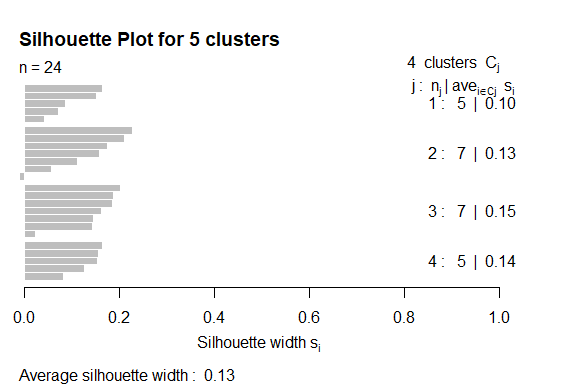
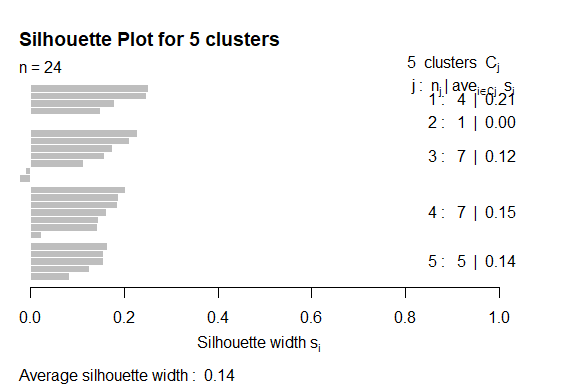
Fix pam k value

diff --git a/sm9_clustering-pca.md b/sm9_clustering-pca.md
@@ -87,11 +87,31 @@ library(pvclust)
 
 ``` r
 library(xtable)
+```
+
+    ## Warning: package 'xtable' was built under R version 4.3.2
+
+``` r
 library(limma)
 library(tidyr)
+```
+
+    ## Warning: package 'tidyr' was built under R version 4.3.2
+
+``` r
 library(dplyr)
+```
+
+    ## Warning: package 'dplyr' was built under R version 4.3.2
+
+``` r
 library(GEOquery)
 library(knitr)
+```
+
+    ## Warning: package 'knitr' was built under R version 4.3.3
+
+``` r
 library(pheatmap)
 ```
 
@@ -105,6 +125,11 @@ library(matrixStats)
 
 ``` r
 library(ggplot2)
+```
+
+    ## Warning: package 'ggplot2' was built under R version 4.3.3
+
+``` r
 library(Rtsne)
 ```
 
@@ -704,7 +729,7 @@ unlike k-means
 Here we run PAM with k = 5.
 
 ``` r
-pr.pam <- pam(pr.dis, k = 4)
+pr.pam <- pam(pr.dis, k = 5)
 pr.pamTable <- data.frame(tissue = pData(geo_obj)$tissue, 
                           genotype = pData(geo_obj)$genotype,
                           cluster = pr.pam$clustering)
@@ -716,27 +741,27 @@ kable(pr.pamTable)
 | GSM1720833 | quadriceps | control    |       1 |
 | GSM1720834 | quadriceps | control    |       1 |
 | GSM1720835 | quadriceps | control    |       1 |
-| GSM1720836 | quadriceps | control    |       1 |
+| GSM1720836 | quadriceps | control    |       2 |
 | GSM1720837 | quadriceps | control    |       1 |
-| GSM1720838 | quadriceps | control    |       2 |
-| GSM1720839 | quadriceps | nebulin KO |       2 |
-| GSM1720840 | quadriceps | nebulin KO |       2 |
-| GSM1720841 | quadriceps | nebulin KO |       2 |
-| GSM1720842 | quadriceps | nebulin KO |       2 |
-| GSM1720843 | quadriceps | nebulin KO |       2 |
-| GSM1720844 | quadriceps | nebulin KO |       2 |
-| GSM1720845 | soleus     | control    |       3 |
-| GSM1720846 | soleus     | control    |       4 |
-| GSM1720847 | soleus     | control    |       4 |
-| GSM1720848 | soleus     | control    |       4 |
-| GSM1720849 | soleus     | control    |       4 |
-| GSM1720850 | soleus     | control    |       4 |
-| GSM1720851 | soleus     | nebulin KO |       3 |
-| GSM1720852 | soleus     | nebulin KO |       3 |
-| GSM1720853 | soleus     | nebulin KO |       3 |
-| GSM1720854 | soleus     | nebulin KO |       3 |
-| GSM1720855 | soleus     | nebulin KO |       3 |
-| GSM1720856 | soleus     | nebulin KO |       3 |
+| GSM1720838 | quadriceps | control    |       3 |
+| GSM1720839 | quadriceps | nebulin KO |       3 |
+| GSM1720840 | quadriceps | nebulin KO |       3 |
+| GSM1720841 | quadriceps | nebulin KO |       3 |
+| GSM1720842 | quadriceps | nebulin KO |       3 |
+| GSM1720843 | quadriceps | nebulin KO |       3 |
+| GSM1720844 | quadriceps | nebulin KO |       3 |
+| GSM1720845 | soleus     | control    |       4 |
+| GSM1720846 | soleus     | control    |       5 |
+| GSM1720847 | soleus     | control    |       5 |
+| GSM1720848 | soleus     | control    |       5 |
+| GSM1720849 | soleus     | control    |       5 |
+| GSM1720850 | soleus     | control    |       5 |
+| GSM1720851 | soleus     | nebulin KO |       4 |
+| GSM1720852 | soleus     | nebulin KO |       4 |
+| GSM1720853 | soleus     | nebulin KO |       4 |
+| GSM1720854 | soleus     | nebulin KO |       4 |
+| GSM1720855 | soleus     | nebulin KO |       4 |
+| GSM1720856 | soleus     | nebulin KO |       4 |
 
 > Additional information on the PAM result is available through
 > `summary(pr.pam)`
@@ -1179,7 +1204,7 @@ summary(pcs)
     ## Proportion of Variance  0.02409  0.02298  0.02259  0.02166  0.02101  0.02004
     ## Cumulative Proportion   0.80055  0.82353  0.84612  0.86779  0.88880  0.90884
     ##                            PC19     PC20     PC21     PC22     PC23      PC24
-    ## Standard deviation     26.52966 25.79456 25.54092 24.84522 24.54739 3.318e-13
+    ## Standard deviation     26.52966 25.79456 25.54092 24.84522 24.54739 3.351e-13
     ## Proportion of Variance  0.01979  0.01871  0.01835  0.01736  0.01695 0.000e+00
     ## Cumulative Proportion   0.92863  0.94735  0.96569  0.98305  1.00000 1.000e+00
 
@@ -1295,8 +1320,8 @@ tsnePlotPerplexity(eset = geo_obj, perp = 0.5)
     ## Building tree...
     ## Done in 0.00 seconds (sparsity = 0.069444)!
     ## Learning embedding...
-    ## Iteration 50: error is 71.381545 (50 iterations in 0.00 seconds)
-    ## Iteration 100: error is 60.951369 (50 iterations in 0.00 seconds)
+    ## Iteration 50: error is 63.807923 (50 iterations in 0.00 seconds)
+    ## Iteration 100: error is 68.377393 (50 iterations in 0.00 seconds)
     ## Fitting performed in 0.00 seconds.
 
 <img src="sm9_clustering-pca_files/figure-gfm/unnamed-chunk-42-2.png" style="display: block; margin: auto;" />
@@ -1313,8 +1338,8 @@ tsnePlotPerplexity(eset = geo_obj, perp = 2)
     ## Building tree...
     ## Done in 0.00 seconds (sparsity = 0.322917)!
     ## Learning embedding...
-    ## Iteration 50: error is 63.891916 (50 iterations in 0.00 seconds)
-    ## Iteration 100: error is 51.455915 (50 iterations in 0.00 seconds)
+    ## Iteration 50: error is 54.697227 (50 iterations in 0.00 seconds)
+    ## Iteration 100: error is 64.708669 (50 iterations in 0.00 seconds)
     ## Fitting performed in 0.00 seconds.
 
 <img src="sm9_clustering-pca_files/figure-gfm/unnamed-chunk-42-3.png" style="display: block; margin: auto;" />
